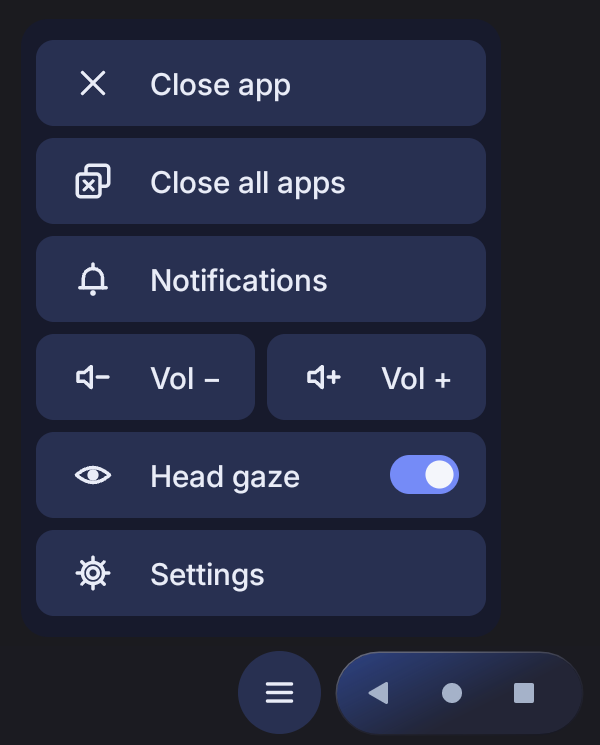
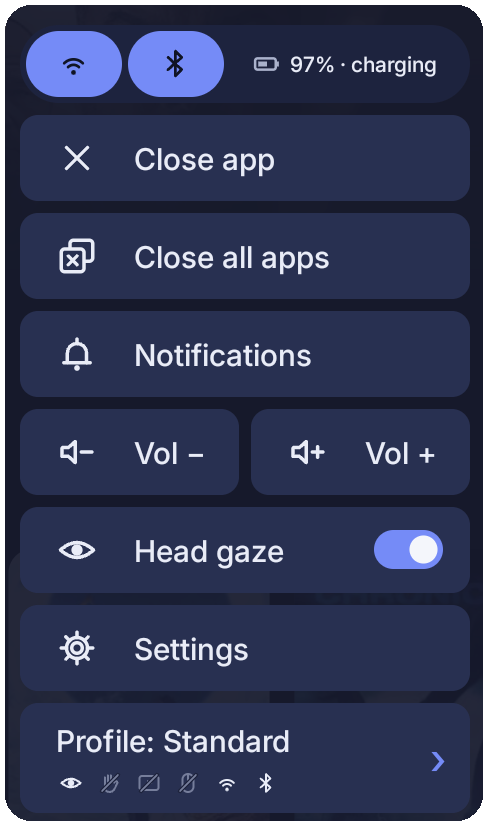
VND and TV Home 1.1.0: README and changelog for profiles, the volume-up hold, panel header and Tailscale; new screenshots
Claude-Session: https://claude.ai/code/session_01VUf44TcDJLfxdnnXui99Bk

diff --git a/README.md b/README.md
@@ -293,16 +293,18 @@ T bloat        com.meig.logger                    # [safe] Diagnostic logger fro
 
 ### The helper app in one minute
 
-**TV Home** (`com.hoang.vhome`, about 20 KB) is a small companion app that ships with VND in [tvhome/](tvhome/), source code included. VND's script changes settings; TV Home adds the few things a settings change cannot do. It has six parts:
+**TV Home** (`com.hoang.vhome`, about 65 KB) is a small companion app that ships with VND in [tvhome/](tvhome/), source code included. VND's script changes settings; TV Home adds the few things a settings change cannot do:
 
 | Part | What it does | Why it is needed |
 |---|---|---|
 | **Home toggle** | Home opens Google TV; Home again opens the stock app list | Android only lets a real home app decide what Home opens |
 | **Head gaze and gestures at startup** | Switches Headgaze Navigation on, and hand gestures off if you chose so, at every boot | Viture's firmware resets both at each restart |
 | **Head gaze button** | A quick-settings button to switch head tracking on and off | Viture disables volume keys while head gaze is on |
-| **Floating controls** | A hidden ☰ button in the taskbar, also opened by a controller's Menu key, with Close app, Close all, Notifications, Volume, Head gaze and Settings | The plain interface relies on swipes and drags a head-gaze cursor cannot perform |
+| **Floating controls** | A hidden ☰ button in the taskbar, also opened by a controller's Menu key, with Wi-Fi, Bluetooth and battery at the top, Close app, Close all, Notifications, Volume, Head gaze, Settings and Profile | The plain interface relies on swipes and drags a head-gaze cursor cannot perform |
+| **Hold volume up** | Holding the neckband's volume-up button opens the scroll and media controls (or the panel) in the middle of the view, from anywhere | Reaching a corner or an edge with your head every time is slow |
+| **Profiles** | Standard, Cinema, Work, Airplane and Custom: one click sets head gaze, gestures, Wi-Fi, Bluetooth and two automatic rules (head gaze steps aside during full-screen video, or while a keyboard or mouse is connected) | Bed, commute and desk need different setups |
 | **Edge controls** | A scrollbar on the left or right edge, and a media bar while something plays | Head gaze can click but cannot drag, so long lists and pages are hard to scroll |
-| **Settings popup** | Startup choices, Wireless debugging with its address, edge controls, sleep timer, button remapping, About | Changing these otherwise needs a computer and adb |
+| **Settings popup** | Home choice, volume-up hold, startup choices, Wireless debugging with its address (and Tailscale, if installed), edge controls, sleep timer, button remapping, About | Changing these otherwise needs a computer and adb |
 | **Welcome tour and updates** | A short tour on first use; optional daily check for a new version on GitHub, installed after your confirmation | Sideloaded apps get no store updates |
 
 It has no app screen of its own (everything lives in the panel), no background activity beyond the startup check, no analytics, and it stores nothing. Its only internet use is the optional update check, **off by default**: once a day it reads the public page of this repository's latest release on GitHub, and nothing about you or the device is sent.
@@ -321,6 +323,7 @@ It has no app screen of its own (everything lives in the panel), no background a
 | **Network state** (`ACCESS_NETWORK_STATE`, granted automatically) | Showing the neckband's Wi-Fi and VPN addresses next to Wireless debugging. This is not internet access | Uninstall the app |
 | **Internet** (`INTERNET`, granted automatically) | Only the update check and download, from `api.github.com` and GitHub's release files. Nothing is contacted while *Check for updates automatically* is off, unless you press *Check now* | Switch the check off in About |
 | **Install apps** (`REQUEST_INSTALL_PACKAGES`) | Handing a downloaded update to Android's installer, which asks you to confirm and accepts only a file signed with the same key | Settings → Apps → Special app access → Install unknown apps |
+| **Wi-Fi and Bluetooth** (`CHANGE_WIFI_STATE`, `ACCESS_WIFI_STATE`, `BLUETOOTH`, `BLUETOOTH_ADMIN`, granted automatically) | The Wi-Fi and Bluetooth switches at the top of the panel and in the profiles. Android lets apps switch the radios directly only when they target Android 9, so TV Home targets API 28; it runs normally on the neckband's Android 13 | Uninstall the app |
 | **Accessibility service** "TV Home controls" | Drawing the controls over full-screen apps, performing the Recents swipe to close apps, opening notifications, listening for the buttons you remap, reading the port on the Wireless debugging page | Settings → Accessibility → TV Home controls |
 | **Quick-settings tile** | The Head gaze button in the pull-down panel | Edit the quick-settings panel |
 
@@ -339,10 +342,10 @@ Android installs only apps that carry a digital signature. The signature does no
 
 ### Downloading the APK
 
-Every [GitHub release](https://github.com/hchuynh/Viture-Neckband-Debloater/releases) has the matching TV Home build attached as `TVHome-<version>.apk` (for example `TVHome-1.0.0.apk` on v1.0.0). It is the same file as `tvhome/TVHome.apk` in that release's source, signed with the certificate above. Check it before installing:
+Every [GitHub release](https://github.com/hchuynh/Viture-Neckband-Debloater/releases) has the matching TV Home build attached as `TVHome-<version>.apk` (for example `TVHome-1.1.0.apk` on v1.1.0). It is the same file as `tvhome/TVHome.apk` in that release's source, signed with the certificate above. Check it before installing:
 
 ```bash
-apksigner verify --print-certs TVHome-1.0.0.apk | grep SHA-256
+apksigner verify --print-certs TVHome-1.1.0.apk | grep SHA-256
 # must print ef3dac4a5106867af16d63b4a3bbed9ecf48791c9c454b06415aba150dfb88f0
 ```
 
@@ -351,7 +354,7 @@ apksigner verify --print-certs TVHome-1.0.0.apk | grep SHA-256
 Installing the downloaded file by hand works too, but the app only becomes useful once the permissions below are granted, and nothing is journaled:
 
 ```bash
-adb install -r TVHome-1.0.0.apk
+adb install -r TVHome-1.1.0.apk
 adb shell pm grant com.hoang.vhome android.permission.WRITE_SECURE_SETTINGS
 adb shell appops set com.hoang.vhome GET_USAGE_STATS allow
 adb shell appops set com.hoang.vhome SYSTEM_ALERT_WINDOW allow
@@ -383,35 +386,71 @@ TV Home has no interface of its own and uses practically no resources. It needs 
 
 The plain Android interface relies on gestures a head-gaze cursor cannot perform: closing an app means swiping its card up in Recents, and the notification shade only opens with a drag from the top edge. Full-screen apps also hide the taskbar.
 
-TV Home adds a **☰ button** in the taskbar row, just left of Back, Home and Recents, in the same shape and color. It is **invisible until you move the cursor onto its spot**, then fades in; it fades out again about 1.5 seconds after the cursor leaves. It works the same over full-screen apps that hide the taskbar, without covering them. Click it to open a panel above it:
+TV Home adds a **☰ button** in the taskbar row, just left of Back, Home and Recents, in the same shape and color. It is **invisible until you move the cursor onto its spot**, then fades in; it fades out again about 2.5 seconds after the cursor stops moving over it, also when head gaze is switched off with the pointer still on it. It works the same over full-screen apps that hide the taskbar, without covering them. Click it to open a panel above it:
 
 <p align="center"><img src="docs/img/button-hover.png" alt="The control button is invisible at rest and appears when the cursor reaches its spot next to Back, Home and Recents" width="640"></p>
 <p align="center"><img src="docs/img/panel.png" alt="The control panel" width="300"></p>
 
+Every item highlights while the pointer is over it and flashes when pressed, so you always see what a click will hit.
+
 | Button | What it does |
 |---|---|
+| **Wi-Fi · Bluetooth · battery** (top) | Switch Wi-Fi and Bluetooth on or off (filled when on, slashed when off). The battery shows "charging", or an estimate such as "72% · 2 h 40 min" worked out from the remaining charge and the current drain |
 | **Close app** | Closes the app you are using (opens Recents, swipes its card up, returns Home) |
 | **Close all apps** | Clears Recents (uses Android's Clear all button when available, otherwise swipes each card) |
 | **Notifications** | Opens the shade, with notifications and quick settings together (on this device both open the same shade) |
 | **Vol − / Vol +** | Changes media volume, also while head gaze has the volume keys disabled |
 | **Head gaze** | The switch on the right shows the current state; click the row to change it |
 | **Settings** | Opens the Settings popup described below |
+| **Profile** › | The active profile and its switches as icons; opens the profile list (see [Profiles](#profiles)) |
 
 The panel stays open until you **click outside it**, **click the ☰ button again** or press **Back**. Volume and Head gaze keep it open, so you can press Vol + several times in a row; the other buttons close it because they take you somewhere else. A click outside the panel also reaches whatever is underneath, as with any Android overlay, so click an empty area to close it.
 
 **From an external controller.** The **Menu** key opens and closes the panel too. Touchpad remotes such as the CheerTouch have a dedicated Menu button, which modern Android apps ignore, so nothing is lost by giving it this job. The key is consumed and does not also reach the app underneath. You can give it another job, or give this job to another button, under **Settings → Buttons**.
 
+### Hold volume up
+
+With head gaze on, Viture uses the neckband buttons itself: **volume down** is the mouse button (hold it to drag), a short press of **volume up** is Back, and **holding volume up** is Home. TV Home is the Home app, so it gets that hold and can give it a better job, reachable wherever you are looking:
+
+| Settings → Hold volume up | Holding volume up |
+|---|---|
+| **Scroll and media** (default) | Brings the app in front straight back and opens, in the middle of the view, the media bar with ▲ above and ▼ below while something plays, or only ▲ and ▼ when nothing plays, plus the scrollbar on the right. They close about 2 seconds after the pointer leaves them |
+| **Quick menu** | Opens the ☰ panel in the middle of the view |
+| **Home** | Goes home, as on stock Viture |
+
+Holding again closes what the first hold opened. The taskbar Home button and TV Home's own Home actions still go home: TV Home recognises the taskbar click that comes just before them. Android shows the home screen for an instant before the app comes back, a short flicker that cannot be avoided.
+
+### Profiles
+
+<p align="center"><img src="docs/img/profiles.png" alt="Profile list: Standard, Cinema, Work, Airplane and Custom, each with its switches as icons" width="480"></p>
+
+A profile is a combination of six switches, shown as icons on every profile (slashed when off): head gaze, hand gestures, watch mode, keyboard or mouse rule, Wi-Fi and Bluetooth. Choosing one applies it at once and closes the list; head gaze and gestures also stay that way after a restart.
+
+| Profile | On | Off |
+|---|---|---|
+| **Standard** | Head gaze, Wi-Fi, Bluetooth | Gestures, watch mode, keyboard or mouse rule |
+| **Cinema** | Head gaze, watch mode, Wi-Fi, Bluetooth | Gestures, keyboard or mouse rule |
+| **Work** | Head gaze, keyboard or mouse rule, Wi-Fi, Bluetooth | Gestures, watch mode |
+| **Airplane** | Head gaze | Everything else |
+| **Custom** | Your choice: *Edit ›* opens a switch for each item, then *Save and activate* | |
+
+- **Watch mode.** While a video plays full screen, head gaze switches off within about 2 seconds, so the pointer stops drifting. A neckband volume button (or any other way of switching head gaze on) brings it back; once the pointer has rested for 3 seconds, watch mode steps aside again. Leaving full screen gives head gaze back. It only looks at the screen while something plays and the screen is on.
+- **Keyboard or mouse rule.** When an external keyboard, mouse or trackpad connects, head gaze switches off; it comes back when the last one disconnects. The glasses' own camera and the neckband buttons do not count. Android announces connected devices, so nothing runs in the background.
+- Changing head gaze or gestures in Settings turns the active profile into Custom, so the label never disagrees with the device.
+
 ### The Settings popup
 
-<p align="center"><img src="docs/img/settings.png" alt="TV Home settings: startup choices, Wireless debugging, Buttons and About" width="640"></p>
+<p align="center"><img src="docs/img/settings.png" alt="TV Home settings: Home button, Hold volume up, startup choices, cursor, controls and buttons" width="640"></p>
 
 | Setting | What it does |
 |---|---|
+| **Hold volume up** | *Scroll and media* (default), *Quick menu* or *Home*; see [Hold volume up](#hold-volume-up) |
 | **Home button opens** | *Google TV* (default), *Android home* or *Viture 3D*. Home opens the one you choose; pressing Home again while it is in front opens its partner (Google TV and the Android home swap with each other; Viture 3D swaps with the Android home). *Viture 3D* brings back the original experience, at the cost of the 3D home's battery use (about one processor core); it is offered only when Viture's launcher is installed and enabled |
 | **At startup: Head gaze** | On by default. Switch it off if you prefer to start without head tracking |
 | **At startup: Hand gestures** | On is Viture's default. Off switches the gesture camera off at once and keeps it off after every restart, the biggest single battery saving (the same flag `apply gestures` sets) |
 | **`</>`** (top right) | Shows or hides the Wireless debugging row below. Hidden by default, since everyday users never need it. It only changes what TV Home shows: Android's Developer options and Wireless debugging itself are not touched |
 | **Wireless debugging** (with `</>` on) | Switches it on or off now; the line below shows the neckband's addresses (Wi-Fi first, then VPN such as Tailscale) and the port. Android does not let apps read the port, so TV Home briefly opens the system Wireless debugging page behind the popup, reads its "IP address & Port" line and steps back (only while the row is shown). It also picks the port up whenever you open that page yourself |
+| **Tailscale** (with `</>` on, only when Tailscale is installed) | Connects or disconnects Tailscale with the switch Tailscale offers to automation apps, and shows *Connected* or *Off*. Handy when you reach the neckband's Wireless debugging over Tailscale. TV Home cannot see whether Tailscale is logged in: if it is not, the switch does nothing |
 | *(advanced)* Wireless debugging after the next restart | `adb shell settings put global vnd_adb_next_boot 1` before rebooting: TV Home turns it on once after the restart and shows the new address and port on screen |
 | **Cursor: Hide when still** | On by default; see below |
 | **Controls: Edge controls** | On by default; see below |
@@ -466,7 +505,7 @@ Head gaze can point and click but not drag, which makes long lists, web pages an
 - **Double-click** a half to jump to the top or the bottom.
 - **Press and drag** along it to scroll continuously; the further you drag, the faster it goes.
 
-It scrolls the largest scrollable area of the app in front, so it works in lists, settings, web pages and app stores alike.
+It scrolls the main list of the app in front: the one that scrolls vertically and covers the middle of the screen, chosen once when the bar opens and kept while it stays open, so it works in lists, settings, web pages and app stores alike, and sideways rows (YouTube's Shorts and topic chips) do not steal it. Scroll commands run one at a time in the background: when an app is busy (YouTube loading previews), steps are skipped instead of piling up and arriving all at once.
 
 <br clear="right">
 
@@ -697,6 +736,7 @@ Contributions are welcome, especially measurements from other firmware versions.
 - **Do not add** VITURE firmware files, extracted APKs, logos, screenshots of copyrighted UI or text copied from VITURE documentation. Link to public sources and paraphrase.
 - **Screenshots** in `docs/img/` show only VND and TV Home over neutral Android screens. Any screenshot with third-party content (posters, artwork, other brands' icons) or personal data (account names, network names, profile pictures) must be blurred before it is committed.
 - Keep `vnd.sh` compatible with bash 3.2 (macOS default) and run `shellcheck` before submitting.
+- **TV Home changes** pass the three test layers in [docs/TESTING.md](docs/TESTING.md): `tvhome/test/run-unit-tests.sh`, the read-only `tvhome/test/device-smoke.sh` on a neckband, and the manual checklist with the glasses on.
 
 ---
 

diff --git a/CHANGELOG.md b/CHANGELOG.md
@@ -1,5 +1,17 @@
 # Changelog
 
+## 1.1.0 (2026-11-01)
+
+- TV Home 1.1.0, **profiles**: Standard, Cinema, Work, Airplane and Custom, chosen from the new last row of the ☰ panel (with a › and the profile's switches as icons). Each sets head gaze and gestures (now and at startup), Wi-Fi, Bluetooth and two automatic rules: **watch mode** (head gaze steps aside during full-screen video; a volume button, or switching it on any other way, brings it back, and it steps aside again after the pointer rests 3 seconds) and the **keyboard or mouse rule** (head gaze off while one is connected). Choosing a profile closes the list; changing head gaze or gestures in Settings turns it into Custom.
+- **Panel header**: Wi-Fi and Bluetooth switches and a battery estimate. TV Home now targets Android 9 (API 28), the only way Android lets an app switch the radios; it runs normally on Android 13.
+- **Hold volume up** (Viture sends Home for it): opens the scroll and media controls in the centre (default), the panel in the centre, or goes Home, chosen in Settings. The taskbar Home button still goes home.
+- **Tailscale switch** under Wireless debugging in developer mode, when Tailscale is installed.
+- **Edge scrolling**: one target per opening (vertical lists at the centre first), explicit up/down commands, and a background worker that skips steps while the app is busy, which fixes dead clicks, delayed bursts and double-click to the top on YouTube home.
+- Hover and press feedback on every item; the ☰ button always fades, also when the pointer stops on it or during full-screen video.
+- Battery: events are requested only while a feature needs them; watch mode does nothing with the screen off. Measured idle cost: 0 CPU ticks per minute, about 19 MB of memory, no wakelocks.
+- Tests: 81 unit checks (`tvhome/test/run-unit-tests.sh`), a read-only device smoke test (`tvhome/test/device-smoke.sh`) and a manual regression checklist ([docs/TESTING.md](docs/TESTING.md)).
+- New settings `vnd_profile`, `vnd_profile_custom` and `vnd_hold_volume_up`, journaled and removed with `tvhome uninstall`.
+
 ## 1.0.0 (2026-10-31)
 
 First stable release. Earlier releases are renumbered as 0.x (formerly 1.0 to 1.8): v1.4.0 → v0.5.0, v1.5.0 → v0.6.0, v1.6.0 → v0.7.0, v1.7.0 → v0.8.0, v1.8.0 → v0.9.0.
